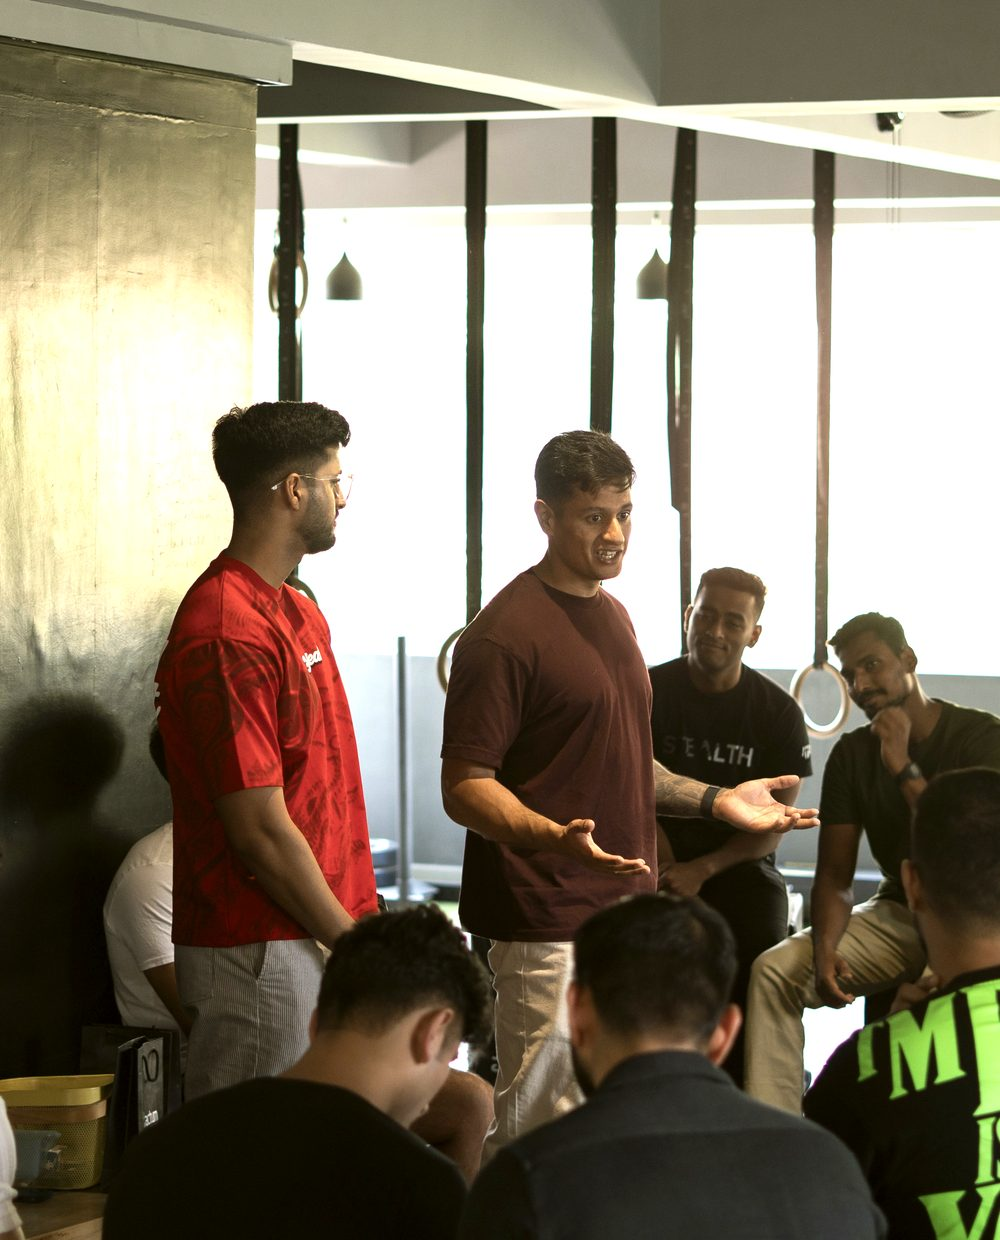
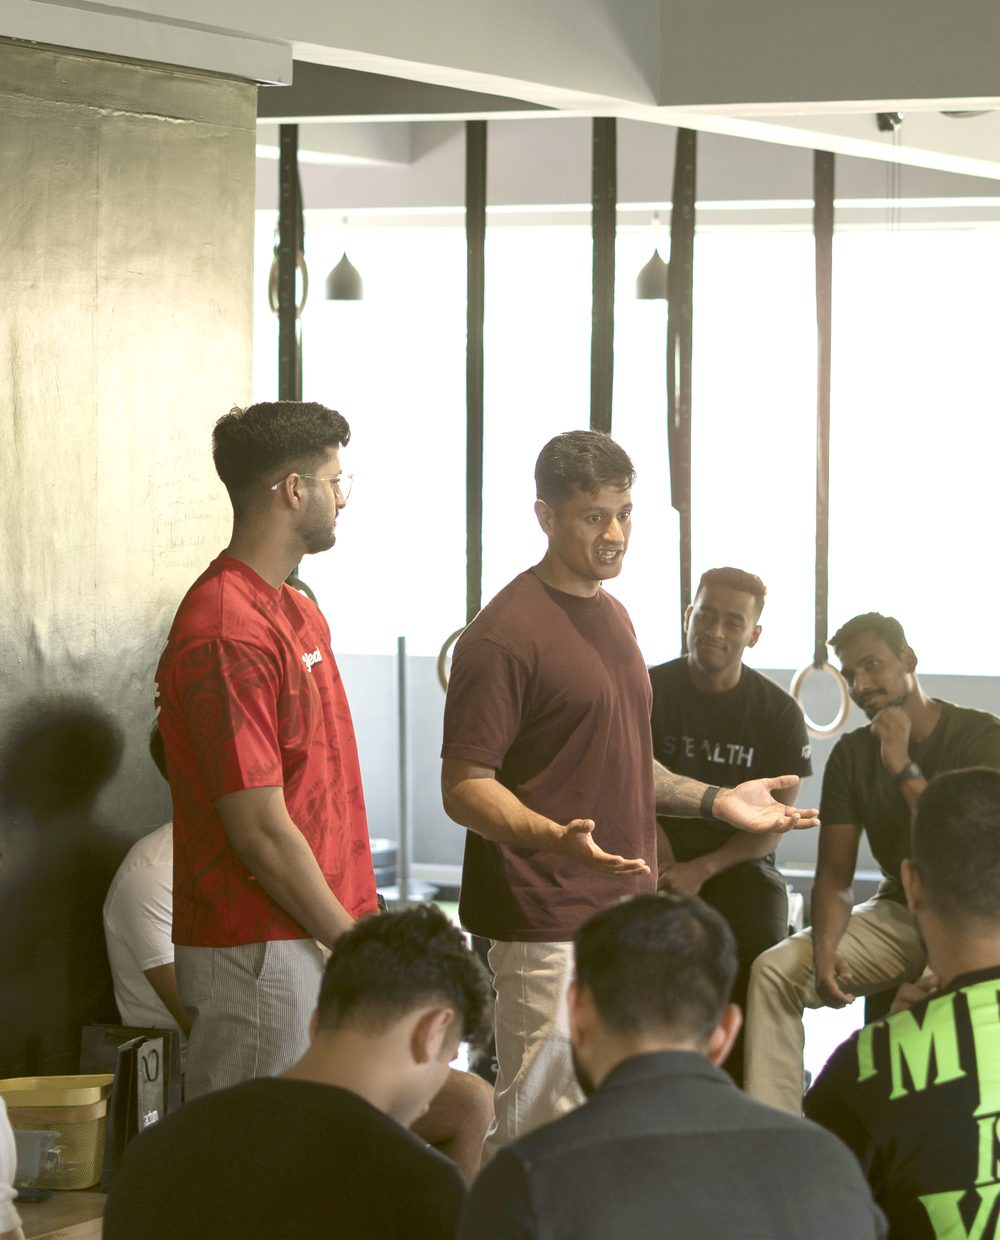
Keep every face visible in the testimonials and about heroes
Owner's call: faces matter more than text prominence here, so the text
gives way to the photograph rather than the other way round.

Both heroes:
- Dropped the left scrim. It was darkening the people on that side, which
  is the opposite of what these two photos are for.
- Lightened the vertical ramp so it fades out entirely by 78% height.
- Headline down one size step, set to 90% opacity.
- Paragraph down one size step and to 75% white.
- Both carry a text shadow instead, so legibility comes from the shadow
  rather than from dimming the photo behind them.
- Tighter spacing so the block covers less of the frame.

About also needed a real shadow lift, since it is backlit by the window
and the seated class was the darkest part. Raised the gamma to 1.55,
which opens the shadows without clipping the window highlights, so every
person listening is now visible.

Checked at 1100x760, 1600x780, 1440x1000 and 390x844.

diff --git a/about.html b/about.html
@@ -215,14 +215,14 @@
   <section id="main" class="relative flex flex-col justify-center md:justify-end" style="min-height:85vh;">
     <picture>
       <source media="(max-width:1023px)" srcset="assets/images/hero-main-mobile.jpg">
-      <img decoding="async" loading="eager" fetchpriority="high" src="assets/images/hero-main.jpg" alt="NCA coach" class="hero-bg-img" style="position:absolute;top:0;left:0;width:100%;height:100%;object-fit:cover;object-position:center top;z-index:0;filter:brightness(1.10) saturate(1.05);">
+      <img decoding="async" loading="eager" fetchpriority="high" src="assets/images/hero-main.jpg" alt="NCA coach" class="hero-bg-img" style="position:absolute;top:0;left:0;width:100%;height:100%;object-fit:cover;object-position:center 52%;z-index:0;filter:brightness(1.06) saturate(1.04);">
     </picture>
-    <div style="position:absolute;top:0;left:0;width:100%;height:100%;z-index:1;background:linear-gradient(to top,rgba(5,16,31,0.95) 0%,rgba(5,16,31,0.80) 24%,rgba(5,16,31,0.34) 55%,rgba(5,16,31,0.05) 100%);"></div>
+    <div style="position:absolute;top:0;left:0;width:100%;height:100%;z-index:1;background:linear-gradient(to top,rgba(5,16,31,0.78) 0%,rgba(5,16,31,0.46) 22%,rgba(5,16,31,0.16) 50%,rgba(5,16,31,0.00) 78%);"></div>
     <div class="relative w-full max-w-7xl mx-auto px-5 md:px-8 pb-10 md:pb-24 pt-24 md:pt-0 space-y-5 md:space-y-6 text-center md:text-left" style="z-index:2;">
-      <h1 class="font-display text-3xl sm:text-4xl md:text-5xl lg:text-6xl font-extrabold text-white leading-tight mx-auto md:mx-0 max-w-2xl">
+      <h1 class="font-display text-2xl sm:text-3xl md:text-4xl lg:text-5xl font-extrabold text-white leading-tight mx-auto md:mx-0 max-w-2xl" style="opacity:0.90;text-shadow:0 2px 16px rgba(5,16,31,0.90), 0 1px 5px rgba(5,16,31,0.80);">
         Coaching, done the<br><span class="text-accent">rigorous way.</span>
       </h1>
-      <p class="text-white/80 text-base md:text-lg leading-relaxed font-body mx-auto md:mx-0 max-w-sm md:max-w-xl">
+      <p class="text-white/75 text-base md:text-lg leading-relaxed font-body mx-auto md:mx-0 max-w-sm md:max-w-xl" style="text-shadow:0 2px 16px rgba(5,16,31,0.90), 0 1px 5px rgba(5,16,31,0.80);">
         We built Nutrition Codes to turn coaches into specialists clients trust, grounded in real science, not trends. Here is who we are and why it works.
       </p>
       <div class="flex flex-col sm:flex-row gap-3 md:gap-4 pt-1 items-center md:items-start">

diff --git a/testimonials.html b/testimonials.html
@@ -199,12 +199,12 @@
       <source media="(max-width:767px)" srcset="assets/images/hero-testimonials-mobile.jpg">
       <img decoding="async" loading="eager" fetchpriority="high" src="assets/images/hero-testimonials.jpg" alt="" style="position:absolute;top:0;left:0;width:100%;height:100%;object-fit:cover;object-position:center 46%;z-index:0;filter:brightness(1.08) saturate(1.04);">
     </picture>
-    <div style="position:absolute;top:0;left:0;width:100%;height:100%;background:linear-gradient(to right,rgba(5,16,31,0.62) 0%,rgba(5,16,31,0.34) 34%,rgba(5,16,31,0.00) 62%),linear-gradient(to top,rgba(5,16,31,0.90) 0%,rgba(5,16,31,0.70) 26%,rgba(5,16,31,0.30) 58%,rgba(5,16,31,0.04) 100%);z-index:1;"></div>
-    <div class="relative w-full max-w-7xl mx-auto px-5 md:px-8 pb-10 md:pb-24 pt-24 md:pt-0 space-y-5 md:space-y-6 text-center md:text-left" style="z-index:2;">
-      <h1 class="font-display text-3xl sm:text-4xl md:text-5xl lg:text-6xl font-extrabold text-white leading-tight mx-auto md:mx-0 max-w-2xl">
+    <div style="position:absolute;top:0;left:0;width:100%;height:100%;background:linear-gradient(to top,rgba(5,16,31,0.78) 0%,rgba(5,16,31,0.46) 22%,rgba(5,16,31,0.16) 50%,rgba(5,16,31,0.00) 78%);z-index:1;"></div>
+    <div class="relative w-full max-w-7xl mx-auto px-5 md:px-8 pb-10 md:pb-16 pt-24 md:pt-0 space-y-4 md:space-y-4 text-center md:text-left" style="z-index:2;">
+      <h1 class="font-display text-2xl sm:text-3xl md:text-4xl lg:text-5xl font-extrabold text-white leading-tight mx-auto md:mx-0 max-w-xl" style="opacity:0.90;text-shadow:0 2px 16px rgba(5,16,31,0.90), 0 1px 5px rgba(5,16,31,0.80);">
         Scientific Mastery.<br><span class="text-accent">Human Transformation.</span>
       </h1>
-      <p class="text-white/80 text-base md:text-lg leading-relaxed font-body mx-auto md:mx-0 max-w-sm md:max-w-xl">
+      <p class="text-white/75 text-sm md:text-base leading-relaxed font-body mx-auto md:mx-0 max-w-sm md:max-w-md" style="text-shadow:0 2px 16px rgba(5,16,31,0.90), 0 1px 5px rgba(5,16,31,0.80);">
         300+ scholars. Dozens of countries. One thing in common: real knowledge that produces real results.
       </p>
       <div class="flex pt-2 justify-center md:justify-start">
